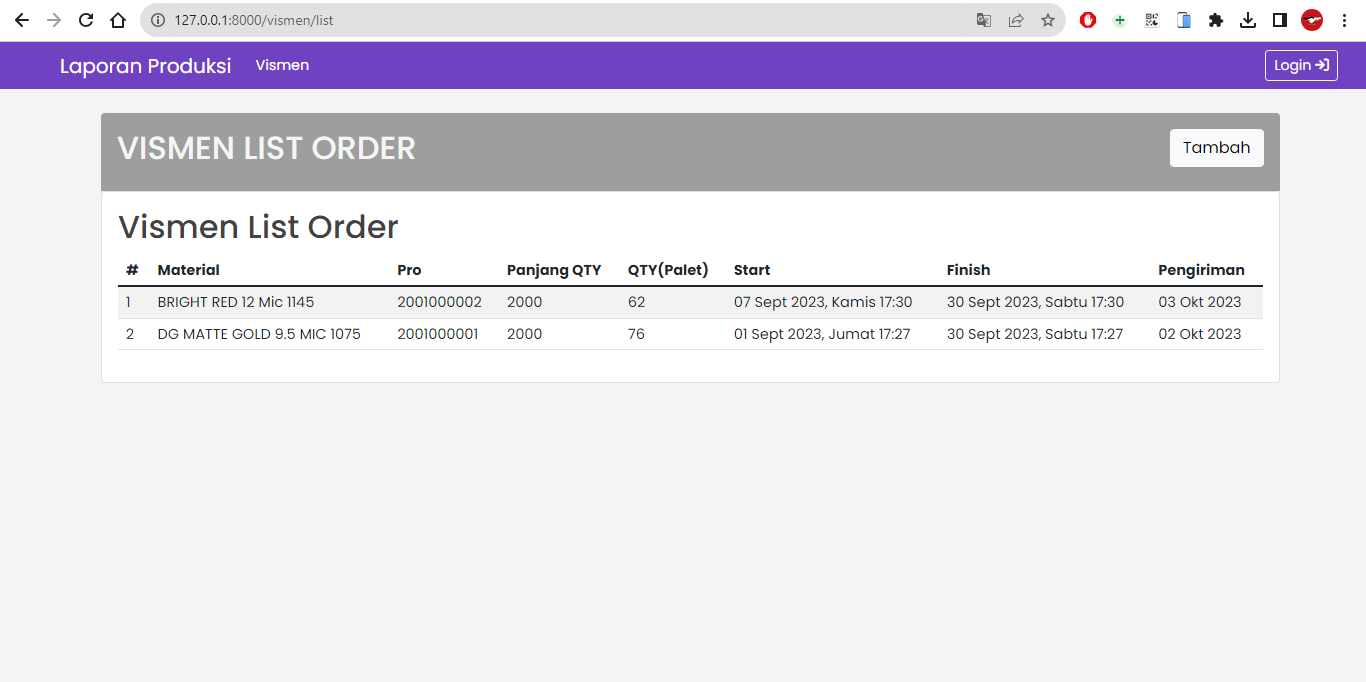
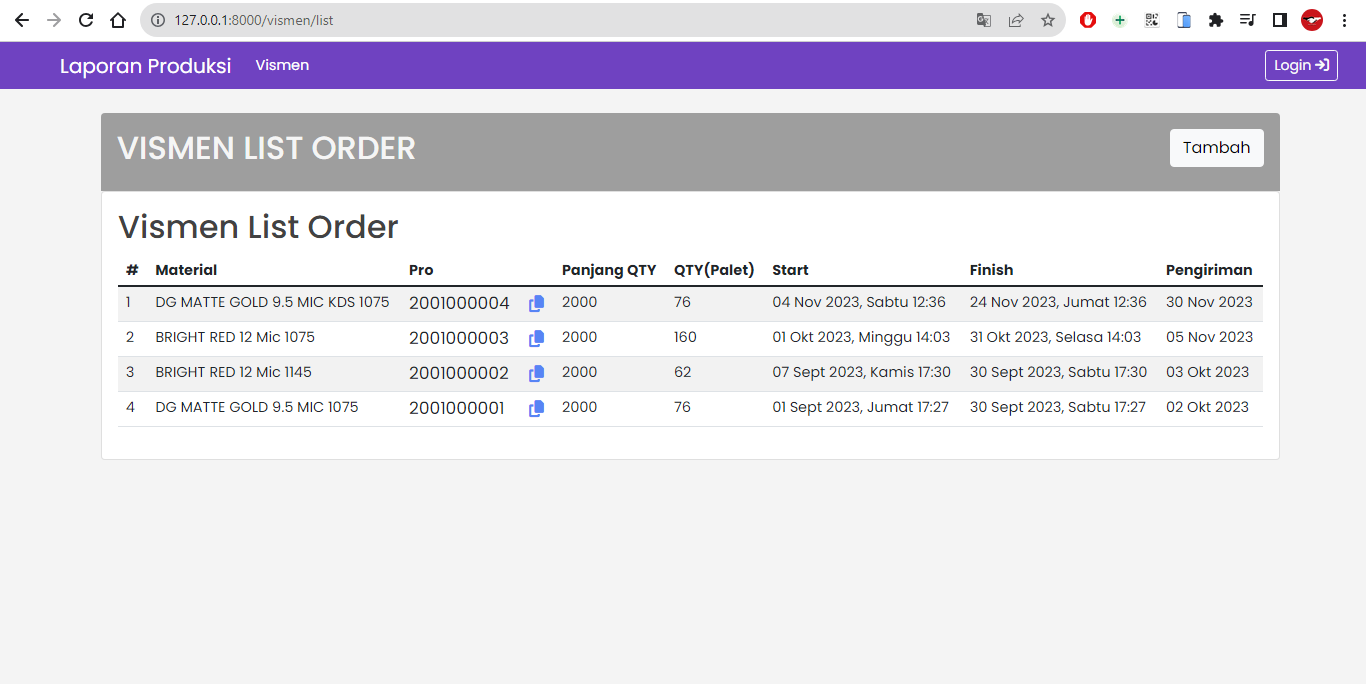
Updated 04 November 2023

diff --git a/app/views/landing/vismen.php b/app/views/landing/vismen.php
@@ -1,40 +1,54 @@
 <style>
-    .tooltip {
+    .copy-text {
         position: relative;
-        display: inline-block;
+        display: flex;
     }
 
-    .tooltip .tooltiptext {
-        visibility: hidden;
-        width: 140px;
-        background-color: #555;
-        color: #fff;
-        text-align: center;
-        border-radius: 6px;
-        padding: 5px;
+    .copy-text div.text {
+        font-size: 17px;
+        width: 7.5rem;
+    }
+
+    .copy-text .button {
+        position: relative;
+        color: #5784f5;
+        font-size: 17px;
+        border: none;
+        cursor: pointer;
+    }
+
+    .copy-text .button:active {
+        color: #809ce2;
+    }
+
+    .copy-text .button::before {
+        content: "Copied!";
         position: absolute;
-        z-index: 1;
-        bottom: 150%;
-        left: 50%;
-        margin-left: -75px;
-        opacity: 0;
-        transition: opacity 0.3s;
+        top: -35px;
+        right: -25px;
+        background: #5c81dc;
+        color: #fff;
+        padding: 8px 10px;
+        border-radius: 5px;
+        font-size: 12px;
+        display: none;
     }
 
-    .tooltip .tooltiptext::after {
+    .copy-text .button::after {
         content: "";
         position: absolute;
-        top: 100%;
-        left: 50%;
-        margin-left: -5px;
-        border-width: 5px;
-        border-style: solid;
-        border-color: #555 transparent transparent transparent;
+        height: 10px;
+        width: 10px;
+        background: #5c81dc;
+        top: -14px;
+        right: 3px;
+        transform: rotate(45deg);
+        display: none;
     }
 
-    .tooltip:hover .tooltiptext {
-        visibility: visible;
-        opacity: 1;
+    .copy-text.active .button::before,
+    .copy-text.active .button::after {
+        display: block;
     }
 </style>
 <div class="main py-4">
@@ -85,8 +99,11 @@
                                 <td><?= $nomor++; ?></td>
                                 <td><?= $vs['nm_product']; ?></td>
                                 <td>
-                                    <div id="myTooltip" onclick="copyToClipboard(<?php echo $vs['id_product']; ?>)" data-bs-toggle="tooltip" data-bs-placement="top" title="Copy to Clipboard">
-                                        <?= $vs['id_product']; ?>
+                                    <div class="copy-text" onclick="copyToClipboard(this)">
+                                        <div class="text"><?= $vs['id_product']; ?></div>
+                                        <small class="button">
+                                            <i class="fa-solid fa-copy"></i>
+                                        </small>
                                     </div>
                                 </td>
                                 <td><?= $vs['panjang_qty']; ?></td>
@@ -104,7 +121,15 @@
 </div>
 
 <script>
-    function copyToClipboard(e) {
-        navigator.clipboard.writeText(e);
+    function copyToClipboard(obj) {
+        let input = obj.querySelector("div[class='text']");
+        // input.select();
+        // input.setSelectionRange(0, 99999);
+        navigator.clipboard.writeText(input.innerHTML);
+        obj.classList.add("active");
+        window.getSelection().removeAllRanges();
+        setTimeout(function() {
+            obj.classList.remove("active");
+        }, 900);
     }
 </script>

diff --git a/README.md b/README.md
@@ -30,6 +30,7 @@ Untuk penggunaan atau pemasangan silahkan buka file Dokumentasi.txt
 <p align="center"><img src="public/img/IMG-halaman-produksi-intro.png" width="700"></p> <br><br>
 <p align="center"><img src="public/img/IMG-halaman-produksi.png" width="700"></p> <br><br>
 <p align="center"><img src="public/img/IMG-halaman-produksi-CreateBatch.png" width="700"></p> <br><br>
+<p align="center"><img src="public/img/IMG-halaman-produksi-DetailBatch.png" width="700"></p> <br><br>
 <p align="center"><img src="public/img/IMG-halaman-produksi-Oee.png" width="700"></p> <br><br>
 <p align="center"><img src="public/img/IMG-halaman-produksi-Oee-1.png" width="700"></p> <br><br>
 <p align="center"><img src="public/img/IMG-halaman-produksi-Oee-2.png" width="700"></p> <br><br>
